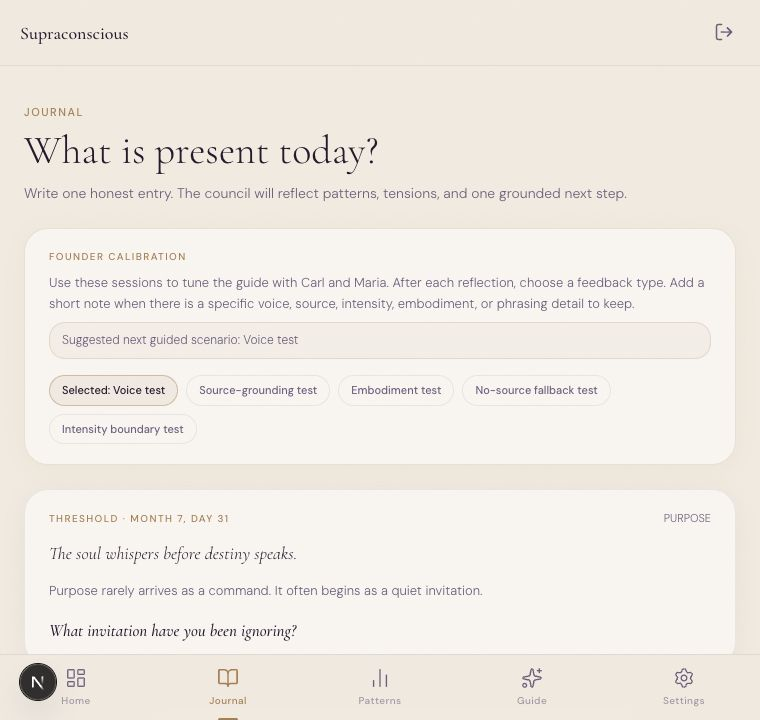
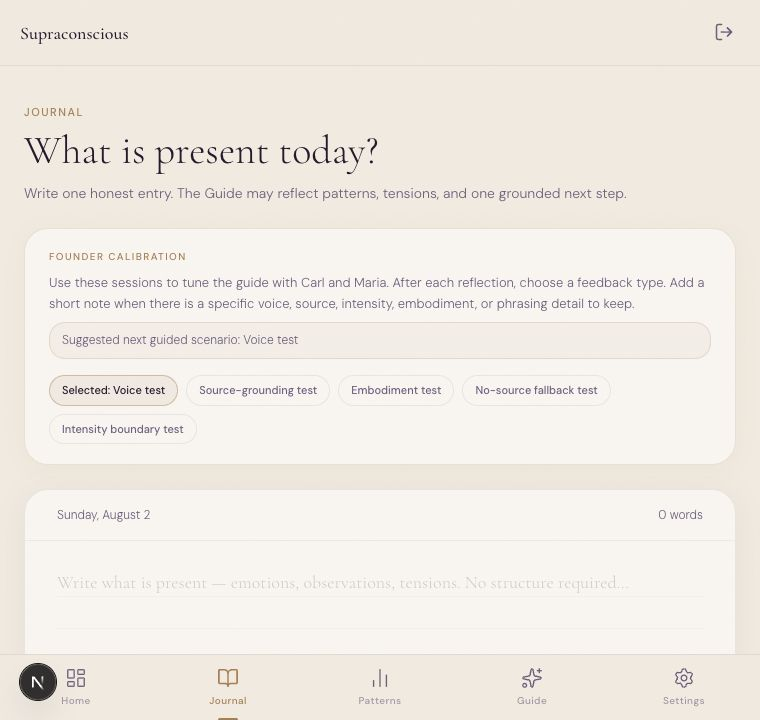
docs: refresh README product screenshots (#35)

diff --git a/README.md b/README.md
@@ -18,14 +18,14 @@ Inner Avatar is a full-stack SaaS application that leverages AI-driven analysis 
 
 ## Product Screenshots
 
-The screenshots below use public pages or privacy-safe application states without saved journal content or account details.
+These screenshots show the current Mirror-centered experience. Public pages and privacy-safe application states are used without saved journal content or visible account details.
 
 <table>
   <tr>
     <td width="50%">
       <img src="docs/images/readme/landing-page.png" alt="Supraconscious landing page" />
       <br />
-      <sub><strong>Landing page</strong> — product positioning and primary reflection entry point.</sub>
+      <sub><strong>Landing page</strong> — product positioning and the Mirror reflection entry point.</sub>
     </td>
     <td width="50%">
       <img src="docs/images/readme/pricing-page.png" alt="Supraconscious pricing page" />
